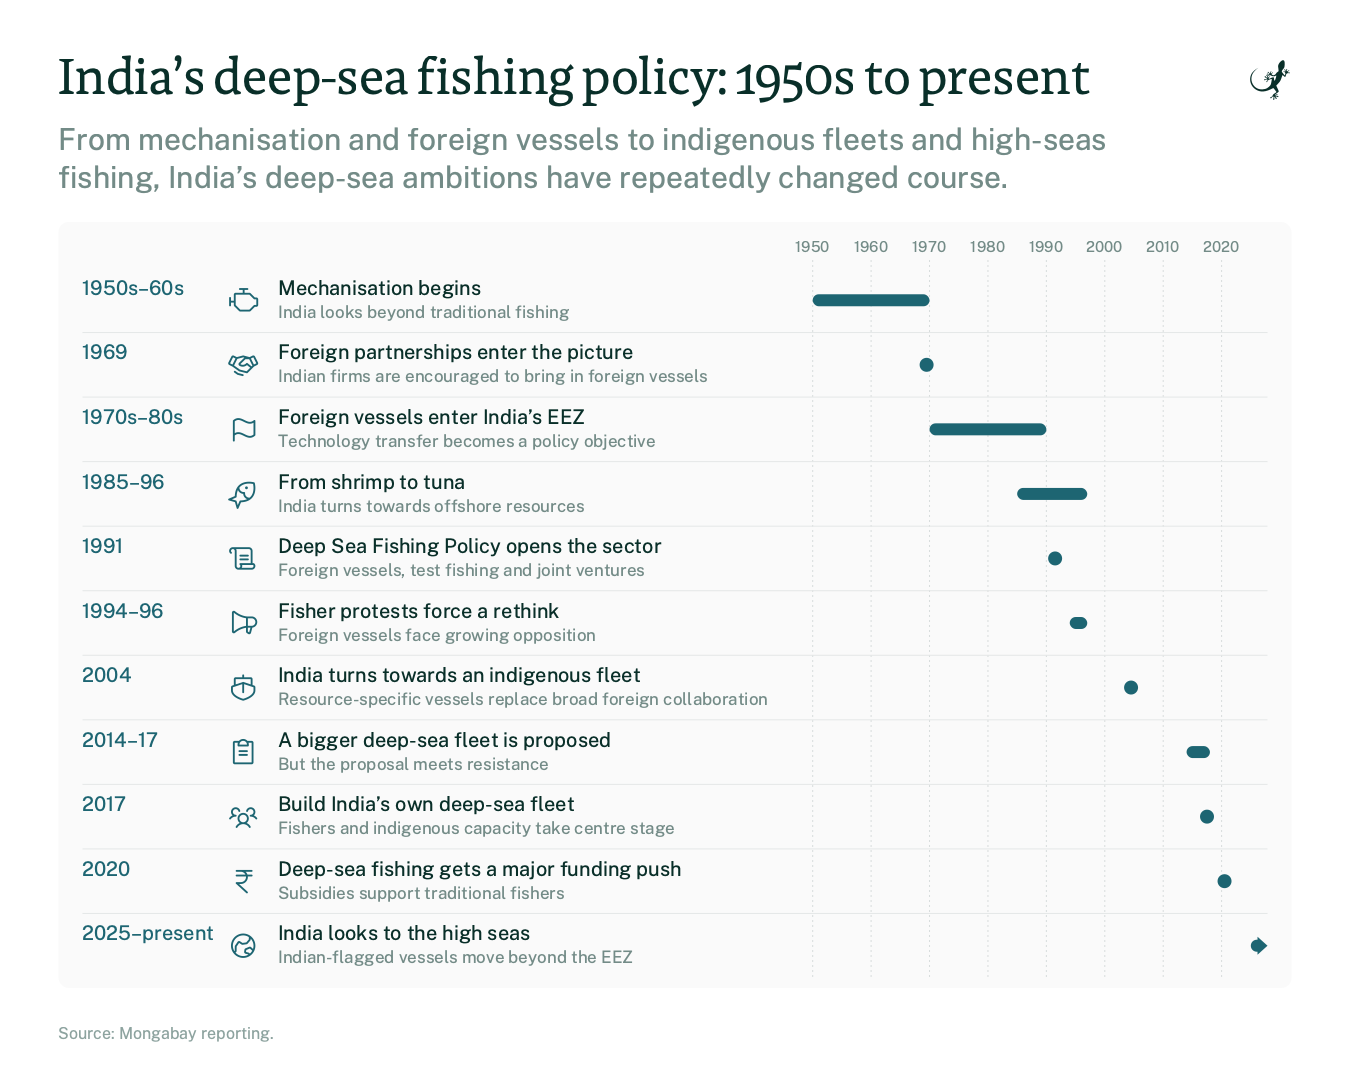
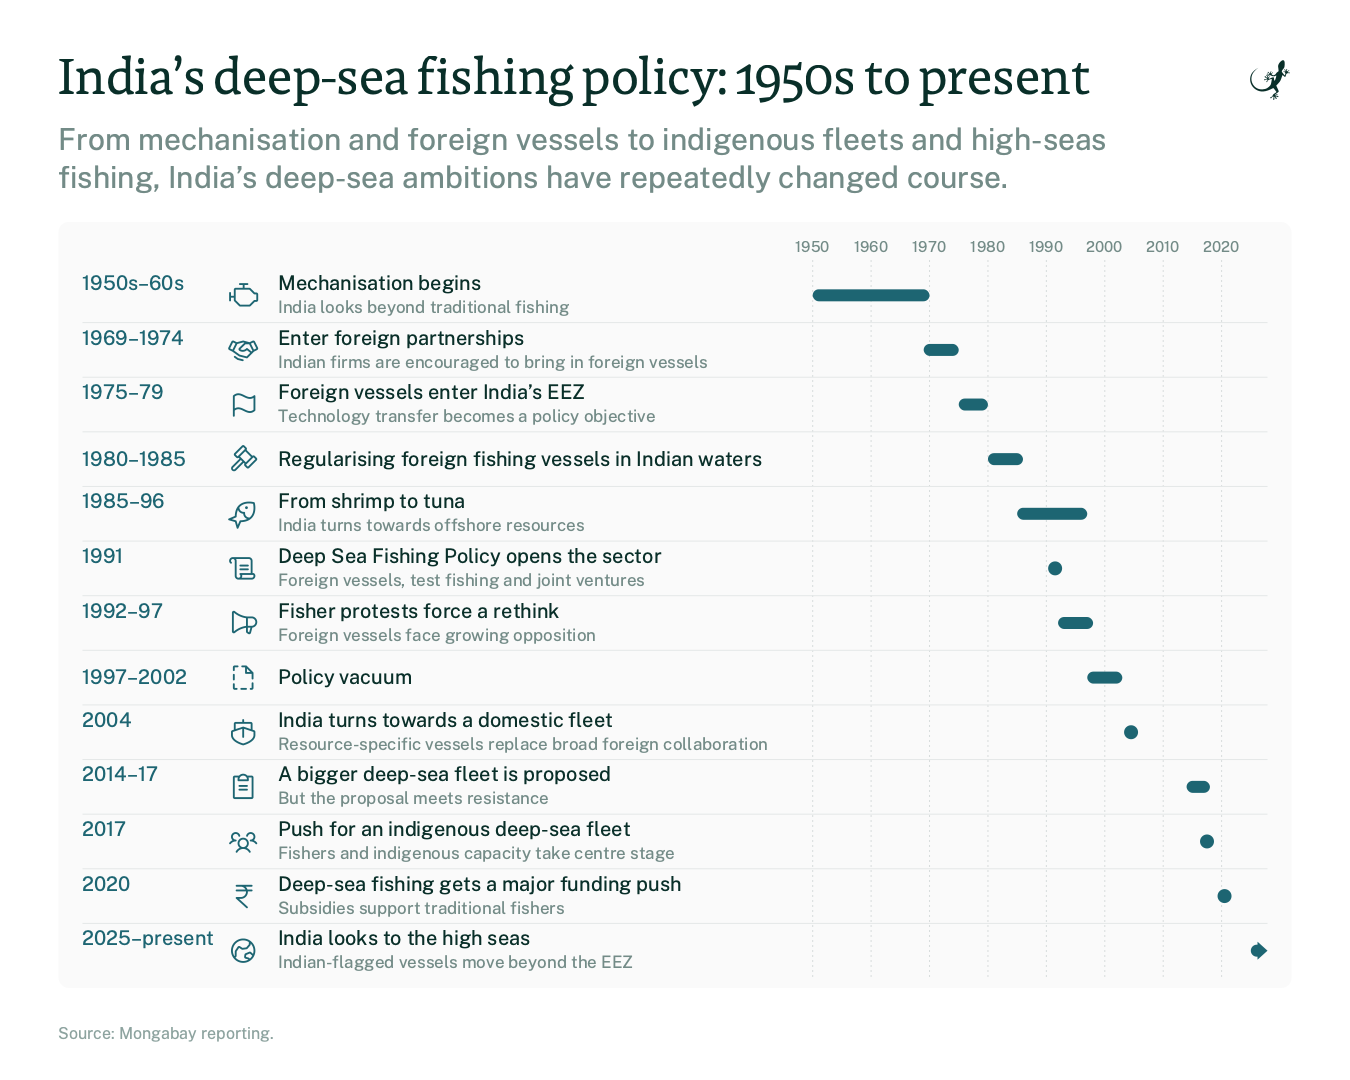
Update to the v2 brief: 13 entries
- Text from "Deep sea fisheries policy changes timeline_v2.docx": new
  1980-1985 and 1997-2002 entries, new periods for 1969-1974, 1975-79 and
  1992-97, edited bodies and two new titles.
- Entries without a subhead show none; gavel and dashed-document icons.
- Wider title column, so the longest title fits one line in a 780 px article.
- Shortcode refitted to the new heights. The fit now also allows for the
  17 px Windows scrollbar in columns of 560 px and up, and puts list-layout
  steps where the lower height applies.

diff --git a/content.js b/content.js
@@ -1,7 +1,8 @@
 // Editorial text for the timeline: the one source for both the web version (app.js) and the static graphic
 // (../output/fig1_build.py). Keep the object after the = sign valid JSON: no comments or trailing commas inside it.
 //
-// Every title, subhead and body is verbatim from "Deep sea fisheries policy changes timeline.docx".
+// Every title, subhead and body is verbatim from "Deep sea fisheries policy changes timeline_v2.docx" (6 Oct 2026).
+// An empty subhead ("") means the entry has none.
 // **double asterisks** mark the phrases the reporter set in bold; the web version highlights them.
 // start / end: first and last year of the period, inclusive. "ongoing": true draws the bar to the end of the axis.
 // icon: a Phosphor icon name from assets/icons.js.
@@ -30,25 +31,34 @@ window.DSF_TIMELINE = {
       "icon": "engine",
       "title": "Mechanisation begins",
       "subhead": "India looks beyond traditional fishing",
-      "body": "The government promotes **mechanisation of indigenous fishing vessels** and exploratory fishing to increase catches and exports. The Indo-Norwegian Project and FAO support the introduction of new vessel designs, including small mechanised boats and larger specialised vessels. Over time, the approach shifts towards **more intensive, export-oriented fishing**, including bottom trawling and onboard freezing."
+      "body": "The government promotes **mechanisation of indigenous fishing vessels** and exploratory fishing to increase catches and exports. The Indo-Norwegian Project and FAO support the introduction of new vessel designs, including small mechanised boats and larger specialised vessels. Penaid prawn is recognised as an important item for export. Over time, the approach shifts towards **more intensive, export-oriented fishing**, including bottom trawling and onboard freezing."
     },
     {
-      "date": "1969",
+      "date": "1969–1974",
       "start": 1969,
-      "end": 1969,
+      "end": 1974,
       "icon": "handshake",
-      "title": "Foreign partnerships enter the picture",
+      "title": "Enter foreign partnerships",
       "subhead": "Indian firms are encouraged to bring in foreign vessels",
-      "body": "Fishing is designated a priority area for **foreign collaboration**. Indian companies are encouraged to lease or import foreign fishing vessels to expand production and participate in the export trade."
+      "body": "Fishing is designated a priority area for **foreign collaboration**. Indian companies are encouraged to lease or import foreign fishing vessels to expand production and participate in the export trade. Deep Sea Fishing Station is renamed Exploratory Fisheries Project in 1974."
     },
     {
-      "date": "1970s–80s",
-      "start": 1970,
-      "end": 1989,
+      "date": "1975–79",
+      "start": 1975,
+      "end": 1979,
       "icon": "flag",
       "title": "Foreign vessels enter India’s EEZ",
       "subhead": "Technology transfer becomes a policy objective",
-      "body": "After India establishes its **200-nautical-mile Exclusive Economic Zone (EEZ)** in 1976, foreign-flagged vessels are allowed to fish in Indian waters through licences and partnerships. Joint ventures are promoted to bring in **technology, resource surveys and fishing expertise**, while helping Indian enterprises enter the export market."
+      "body": "After India establishes its **200-nautical-mile Exclusive Economic Zone (EEZ)** in 1976, foreign-flagged vessels are allowed to fish in Indian waters through licences and partnerships. The first deep-sea policy in 1977 provided for chartering arrangements with foreign operators. Private entrepreneurs are permitted to import trawlers."
+    },
+    {
+      "date": "1980–1985",
+      "start": 1980,
+      "end": 1985,
+      "icon": "gavel",
+      "title": "Regularising foreign fishing vessels in Indian waters",
+      "subhead": "",
+      "body": "Maritime Zones of India (Regulation of Fishing by Foreign Vessels) Act, 1981 regulates foreign vessels operating in Indian waters. Exploratory Fisheries Project is renamed the Fishery Survey of India (1983). Joint ventures are promoted to bring in **technology, resource surveys and fishing expertise**, while helping Indian enterprises enter the export market."
     },
     {
       "date": "1985–96",
@@ -69,20 +79,29 @@ window.DSF_TIMELINE = {
       "body": "As part of wider economic reforms, India introduces a new **Deep Sea Fishing Policy**. It allows foreign vessels to operate through leasing arrangements, permits foreign test fishing and promotes **49:51 foreign-Indian joint ventures** covering fishing, processing and marketing. Around **400 vessels receive valid permits** under the policy."
     },
     {
-      "date": "1994–96",
-      "start": 1994,
-      "end": 1996,
+      "date": "1992–97",
+      "start": 1992,
+      "end": 1997,
       "icon": "megaphone",
       "title": "Fisher protests force a rethink",
       "subhead": "Foreign vessels face growing opposition",
-      "body": "Millions of fishers and fish workers mobilise against the policy, arguing that foreign and larger vessels could cause **encroachment on fishing grounds, over-exploitation and damage to fishing gear and craft**. Following a government review and sustained protests, the 1991 Deep Sea Fishing Policy is **repealed**."
+      "body": "Millions of fishers and fish workers mobilise against the policy, arguing that foreign and larger vessels could cause **encroachment on fishing grounds, over-exploitation and damage to fishing gear and craft**. Following sustained protests and recommendations of the **P. Murari Committee Report**, the 1991 Deep Sea Fishing Policy is rescinded. Foreign fishing under these schemes ends."
+    },
+    {
+      "date": "1997–2002",
+      "start": 1997,
+      "end": 2002,
+      "icon": "file-dashed",
+      "title": "Policy vacuum",
+      "subhead": "",
+      "body": "By the end of 2003, the sector had evolved without a settled deep-sea policy."
     },
     {
       "date": "2004",
       "start": 2004,
       "end": 2004,
       "icon": "boat",
-      "title": "India turns towards an indigenous fleet",
+      "title": "India turns towards a domestic fleet",
       "subhead": "Resource-specific vessels replace broad foreign collaboration",
       "body": "The Comprehensive Policy on Marine Fisheries promotes **Indian-owned, resource-specific vessels** for deep-sea species such as tuna and squid. It also provides incentives for wholly Indian-owned vessels to venture into **international waters** and pursue fishing arrangements with other nations."
     },
@@ -100,7 +119,7 @@ window.DSF_TIMELINE = {
       "start": 2017,
       "end": 2017,
       "icon": "users-three",
-      "title": "Build India’s own deep-sea fleet",
+      "title": "Push for an indigenous deep-sea fleet",
       "subhead": "Fishers and indigenous capacity take centre stage",
       "body": "The National Policy on Marine Fisheries promotes the **modernisation of existing indigenous vessels** and the introduction of new deep-sea fishing vessels. It specifically encourages participation through **fisher cooperatives and self-help groups**, marking a renewed emphasis on domestic capacity."
     },

diff --git a/assets/icons.js b/assets/icons.js
@@ -6,8 +6,10 @@ window.DSF_ICONS = {
   "clipboard-text": "M168,152a8,8,0,0,1-8,8H96a8,8,0,0,1,0-16h64A8,8,0,0,1,168,152Zm-8-40H96a8,8,0,0,0,0,16h64a8,8,0,0,0,0-16Zm56-64V216a16,16,0,0,1-16,16H56a16,16,0,0,1-16-16V48A16,16,0,0,1,56,32H92.26a47.92,47.92,0,0,1,71.48,0H200A16,16,0,0,1,216,48ZM96,64h64a32,32,0,0,0-64,0ZM200,48H173.25A47.93,47.93,0,0,1,176,64v8a8,8,0,0,1-8,8H88a8,8,0,0,1-8-8V64a47.93,47.93,0,0,1,2.75-16H56V216H200Z",
   "currency-inr": "M208,80a8,8,0,0,1-8,8H167.85c.09,1.32.15,2.65.15,4a60.07,60.07,0,0,1-60,60H92.69l72.69,66.08a8,8,0,1,1-10.76,11.84l-88-80A8,8,0,0,1,72,136h36a44.05,44.05,0,0,0,44-44c0-1.35-.07-2.68-.19-4H72a8,8,0,0,1,0-16h75.17A44,44,0,0,0,108,48H72a8,8,0,0,1,0-16H200a8,8,0,0,1,0,16H148.74a60.13,60.13,0,0,1,15.82,24H200A8,8,0,0,1,208,80Z",
   "engine": "M240,104H227.31L192,68.69A15.86,15.86,0,0,0,180.69,64H140V40h24a8,8,0,0,0,0-16H100a8,8,0,0,0,0,16h24V64H64A16,16,0,0,0,48,80v52H24V108a8,8,0,0,0-16,0v64a8,8,0,0,0,16,0V148H48v20.69A15.86,15.86,0,0,0,52.69,180L92,219.31A15.86,15.86,0,0,0,103.31,224h77.38A15.86,15.86,0,0,0,192,219.31L227.31,184H240a16,16,0,0,0,16-16V120A16,16,0,0,0,240,104Zm0,64H224a8,8,0,0,0-5.66,2.34L180.69,208H103.31L64,168.69V80H180.69l37.65,37.66A8,8,0,0,0,224,120h16Z",
+  "file-dashed": "M80,224a8,8,0,0,1-8,8H56a16,16,0,0,1-16-16V184a8,8,0,0,1,16,0v32H72A8,8,0,0,1,80,224ZM216,88v48a8,8,0,0,1-16,0V96H152a8,8,0,0,1-8-8V40H120a8,8,0,0,1,0-16h32a8,8,0,0,1,5.66,2.34l56,56A8,8,0,0,1,216,88Zm-56-8h28.69L160,51.31ZM80,24H56A16,16,0,0,0,40,40V64a8,8,0,0,0,16,0V40H80a8,8,0,0,0,0-16ZM208,168a8,8,0,0,0-8,8v40h-8a8,8,0,0,0,0,16h8a16,16,0,0,0,16-16V176A8,8,0,0,0,208,168ZM48,152a8,8,0,0,0,8-8V104a8,8,0,0,0-16,0v40A8,8,0,0,0,48,152Zm104,64H112a8,8,0,0,0,0,16h40a8,8,0,0,0,0-16Z",
   "fish": "M168,76a12,12,0,1,1-12-12A12,12,0,0,1,168,76Zm48.72,67.64c-19.37,34.9-55.44,53.76-107.24,56.1l-22,51.41A8,8,0,0,1,80.1,256l-.51,0a8,8,0,0,1-7.19-5.78L57.6,198.39,5.8,183.56a8,8,0,0,1-1-15.05l51.41-22c2.35-51.78,21.21-87.84,56.09-107.22,24.75-13.74,52.74-15.84,71.88-15.18,18.64.64,36,4.27,38.86,6a8,8,0,0,1,2.83,2.83c1.69,2.85,5.33,20.21,6,38.85C232.55,90.89,230.46,118.89,216.72,143.64Zm-55.18,29a52.11,52.11,0,0,1-33.4-44.78A52.09,52.09,0,0,1,83.37,94.47q-10.45,23.79-11.3,57.59a8,8,0,0,1-4.85,7.17L31.83,174.37l34.45,9.86a8,8,0,0,1,5.49,5.5l9.84,34.44,15.16-35.4a8,8,0,0,1,7.17-4.84Q137.71,183.12,161.54,172.64ZM212.42,43.57c-14.15-3-64.1-11-100.3,14.75a81.21,81.21,0,0,0-16,15.07,36,36,0,0,0,39.35,38.44,8,8,0,0,1,8.73,8.73,36,36,0,0,0,38.47,39.34,80.81,80.81,0,0,0,15-16C223.42,107.73,215.42,57.74,212.42,43.57Z",
   "flag": "M42.76,50A8,8,0,0,0,40,56V224a8,8,0,0,0,16,0V179.77c26.79-21.16,49.87-9.75,76.45,3.41,16.4,8.11,34.06,16.85,53,16.85,13.93,0,28.54-4.75,43.82-18a8,8,0,0,0,2.76-6V56A8,8,0,0,0,218.76,50c-28,24.23-51.72,12.49-79.21-1.12C111.07,34.76,78.78,18.79,42.76,50ZM216,172.25c-26.79,21.16-49.87,9.74-76.45-3.41-25-12.35-52.81-26.13-83.55-8.4V59.79c26.79-21.16,49.87-9.75,76.45,3.4,25,12.35,52.82,26.13,83.55,8.4Z",
+  "gavel": "M243.32,116.69l-16-16a16,16,0,0,0-20.84-1.53L156.84,49.52a16,16,0,0,0-1.52-20.84l-16-16a16,16,0,0,0-22.63,0l-64,64a16,16,0,0,0,0,22.63l16,16a16,16,0,0,0,20.83,1.52L96.69,124,31.31,189.38A25,25,0,0,0,66.63,224.7L132,159.32l7.17,7.16a16,16,0,0,0,1.52,20.84l16,16a16,16,0,0,0,22.63,0l64-64A16,16,0,0,0,243.32,116.69ZM80,104,64,88l64-64,16,16ZM55.32,213.38a9,9,0,0,1-12.69,0,9,9,0,0,1,0-12.68L108,135.32,120.69,148ZM101,105.66,145.66,61,195,110.34,150.35,155ZM168,192l-16-16,4-4h0l56-56h0l4-4,16,16Z",
   "globe-hemisphere-east": "M128,24A104,104,0,1,0,232,128,104.11,104.11,0,0,0,128,24Zm0,16a87.5,87.5,0,0,1,48,14.28V74L153.83,99.74,122.36,104l-.31-.22L102.38,90.92A16,16,0,0,0,79.87,95.1L58.93,126.4a16,16,0,0,0-2.7,8.81L56,171.44l-3.27,2.15A88,88,0,0,1,128,40ZM62.29,186.47l2.52-1.65A16,16,0,0,0,72,171.53l.21-36.23L93.17,104a3.62,3.62,0,0,0,.32.22l19.67,12.87a15.94,15.94,0,0,0,11.35,2.77L156,115.59a16,16,0,0,0,10-5.41l22.17-25.76A16,16,0,0,0,192,74V67.67A87.87,87.87,0,0,1,211.77,155l-16.14-14.76a16,16,0,0,0-16.93-3l-30.46,12.65a16.08,16.08,0,0,0-9.68,12.45l-2.39,16.19a16,16,0,0,0,11.77,17.81L169.4,202l2.36,2.37A87.88,87.88,0,0,1,62.29,186.47ZM185,195l-4.3-4.31a16,16,0,0,0-7.26-4.18L152,180.85l2.39-16.19L184.84,152,205,170.48A88.43,88.43,0,0,1,185,195Z",
   "handshake": "M254.3,107.91,228.78,56.85a16,16,0,0,0-21.47-7.15L182.44,62.13,130.05,48.27a8.14,8.14,0,0,0-4.1,0L73.56,62.13,48.69,49.7a16,16,0,0,0-21.47,7.15L1.7,107.9a16,16,0,0,0,7.15,21.47l27,13.51,55.49,39.63a8.06,8.06,0,0,0,2.71,1.25l64,16a8,8,0,0,0,7.6-2.1l55.07-55.08,26.42-13.21a16,16,0,0,0,7.15-21.46Zm-54.89,33.37L165,113.72a8,8,0,0,0-10.68.61C136.51,132.27,116.66,130,104,122L147.24,80h31.81l27.21,54.41ZM41.53,64,62,74.22,36.43,125.27,16,115.06Zm116,119.13L99.42,168.61l-49.2-35.14,28-56L128,64.28l9.8,2.59-45,43.68-.08.09a16,16,0,0,0,2.72,24.81c20.56,13.13,45.37,11,64.91-5L188,152.66Zm62-57.87-25.52-51L214.47,64,240,115.06Zm-87.75,92.67a8,8,0,0,1-7.75,6.06,8.13,8.13,0,0,1-1.95-.24L80.41,213.33a7.89,7.89,0,0,1-2.71-1.25L51.35,193.26a8,8,0,0,1,9.3-13l25.11,17.94L126,208.24A8,8,0,0,1,131.82,217.94Z",
   "megaphone": "M248,120a48.05,48.05,0,0,0-48-48H160.2c-2.91-.17-53.62-3.74-101.91-44.24A16,16,0,0,0,32,40V200a16,16,0,0,0,26.29,12.25c37.77-31.68,77-40.76,93.71-43.3v31.72A16,16,0,0,0,159.12,214l11,7.33A16,16,0,0,0,194.5,212l11.77-44.36A48.07,48.07,0,0,0,248,120ZM48,199.93V40h0c42.81,35.91,86.63,45,104,47.24v65.48C134.65,155,90.84,164.07,48,199.93Zm131,8,0,.11-11-7.33V168h21.6ZM200,152H168V88h32a32,32,0,1,1,0,64Z",

diff --git a/dev/shortcode-test.html b/dev/shortcode-test.html
@@ -17,7 +17,7 @@
 <div class="ph--40"><div class="inner">
   <p>Article text before the graphic. This paragraph stands in for the story text above the embed.</p>
   <!-- the shortcode's output, with src pointing at this local copy -->
-  <iframe src="../?fill=1" title="India’s deep-sea fishing policy: 1950s to present (interactive timeline)" style="display:block; width:100%; height:calc(930px - 0.0 * clamp(0px, min(780px, 100vw - 2 * clamp(20px, 1px + 5vw, 40px)) - 280px, 13.5px) - 13.0 * clamp(0px, min(780px, 100vw - 2 * clamp(20px, 1px + 5vw, 40px)) - 293.5px, 2px) - 1.375 * clamp(0px, min(780px, 100vw - 2 * clamp(20px, 1px + 5vw, 40px)) - 295.5px, 16px) - 1.9545 * clamp(0px, min(780px, 100vw - 2 * clamp(20px, 1px + 5vw, 40px)) - 311.5px, 22px) - 0.75 * clamp(0px, min(780px, 100vw - 2 * clamp(20px, 1px + 5vw, 40px)) - 333.5px, 28px) - 0.9286 * clamp(0px, min(780px, 100vw - 2 * clamp(20px, 1px + 5vw, 40px)) - 361.5px, 70px) - 0.3929 * clamp(0px, min(780px, 100vw - 2 * clamp(20px, 1px + 5vw, 40px)) - 431.5px, 56px) - 0.4536 * clamp(0px, min(780px, 100vw - 2 * clamp(20px, 1px + 5vw, 40px)) - 487.5px, 231.5px) + clamp(0px, (min(780px, 100vw - 2 * clamp(20px, 1px + 5vw, 40px)) - 719px) * 100000, 117px) - clamp(0px, (min(780px, 100vw - 2 * clamp(20px, 1px + 5vw, 40px)) - 727.75px) * 100000, 2px)); margin:40px 0; border:0;" scrolling="auto"></iframe>
+  <iframe src="../?fill=1" title="India’s deep-sea fishing policy: 1950s to present (interactive timeline)" style="display:block; width:100%; height:calc(989px - 0.0 * clamp(0px, min(780px, 100vw - 2 * clamp(20px, 1px + 5vw, 40px)) - 280px, 7.5px) - 2.6667 * clamp(0px, min(780px, 100vw - 2 * clamp(20px, 1px + 5vw, 40px)) - 287.5px, 6px) - 1.9444 * clamp(0px, min(780px, 100vw - 2 * clamp(20px, 1px + 5vw, 40px)) - 293.5px, 36px) - 0.9565 * clamp(0px, min(780px, 100vw - 2 * clamp(20px, 1px + 5vw, 40px)) - 329.5px, 46px) - 0.913 * clamp(0px, min(780px, 100vw - 2 * clamp(20px, 1px + 5vw, 40px)) - 375.5px, 46px) - 0.4074 * clamp(0px, min(780px, 100vw - 2 * clamp(20px, 1px + 5vw, 40px)) - 421.5px, 54px) - 0.4545 * clamp(0px, min(780px, 100vw - 2 * clamp(20px, 1px + 5vw, 40px)) - 475.5px, 44px) - 1.75 * clamp(0px, min(780px, 100vw - 2 * clamp(20px, 1px + 5vw, 40px)) - 519.5px, 12px) - 0.2169 * clamp(0px, min(780px, 100vw - 2 * clamp(20px, 1px + 5vw, 40px)) - 531.5px, 83px) - 2.3333 * clamp(0px, min(780px, 100vw - 2 * clamp(20px, 1px + 5vw, 40px)) - 614.5px, 12px) - 0.2065 * clamp(0px, min(780px, 100vw - 2 * clamp(20px, 1px + 5vw, 40px)) - 626.5px, 92px) - 42.0 * clamp(0px, min(780px, 100vw - 2 * clamp(20px, 1px + 5vw, 40px)) - 718.5px, 0.5px) + clamp(0px, (min(780px, 100vw - 2 * clamp(20px, 1px + 5vw, 40px)) - 719px) * 100000, 176px) - clamp(0px, (min(780px, 100vw - 2 * clamp(20px, 1px + 5vw, 40px)) - 763px) * 100000, 23px)); margin:40px 0; border:0;" scrolling="auto"></iframe>
   <p>Article text after the graphic. This paragraph shows the gap a reader sees below the embed.</p>
 </div></div>
 </body>

diff --git a/index.html b/index.html
@@ -38,7 +38,7 @@
     </footer>
 
     <!-- fallback:start (written by make_embed.py: the static graphic for browsers without JavaScript) -->
-    <noscript><img class="tl-fallback" src="assets/static-fallback.png" width="1350" height="1080" alt="India’s deep-sea fishing policy: 1950s to present. 1950s–60s: Mechanisation begins. 1969: Foreign partnerships enter the picture. 1970s–80s: Foreign vessels enter India’s EEZ. 1985–96: From shrimp to tuna. 1991: Deep Sea Fishing Policy opens the sector. 1994–96: Fisher protests force a rethink. 2004: India turns towards an indigenous fleet. 2014–17: A bigger deep-sea fleet is proposed. 2017: Build India’s own deep-sea fleet. 2020: Deep-sea fishing gets a major funding push. 2025–present: India looks to the high seas."></noscript>
+    <noscript><img class="tl-fallback" src="assets/static-fallback.png" width="1350" height="1080" alt="India’s deep-sea fishing policy: 1950s to present. 1950s–60s: Mechanisation begins. 1969–1974: Enter foreign partnerships. 1975–79: Foreign vessels enter India’s EEZ. 1980–1985: Regularising foreign fishing vessels in Indian waters. 1985–96: From shrimp to tuna. 1991: Deep Sea Fishing Policy opens the sector. 1992–97: Fisher protests force a rethink. 1997–2002: Policy vacuum. 2004: India turns towards a domestic fleet. 2014–17: A bigger deep-sea fleet is proposed. 2017: Push for an indigenous deep-sea fleet. 2020: Deep-sea fishing gets a major funding push. 2025–present: India looks to the high seas."></noscript>
     <!-- fallback:end -->
   </figure>
 

diff --git a/app.js b/app.js
@@ -121,7 +121,7 @@
     card.innerHTML =
       '<div class="tl-meta">' + svg(ICONS[e.icon]) + "<span>" + esc(e.date) + "</span></div>" +
       '<h2 class="tl-card-title">' + esc(e.title) + "</h2>" +
-      '<p class="tl-card-sub">' + esc(e.subhead) + "</p>" +
+      (e.subhead ? '<p class="tl-card-sub">' + esc(e.subhead) + "</p>" : "") + // some entries have no subhead
       '<p class="tl-card-body">' + rich(e.body) + "</p>";
     cards.appendChild(card);
     panels.push(card);

diff --git a/style.css b/style.css
@@ -47,7 +47,7 @@
 
   /* list of periods: date | title | time axis */
   --c-date: 6.25rem;      /* adjust column widths here */
-  --c-text: 1.25fr;
+  --c-text: 1.5fr;         /* wide enough for the longest title on one line in a 780 px article column */
   --c-axis: 1fr;
   --gap: 0.75rem;         /* adjust space between columns here */
   --pad: 16px;            /* adjust panel inner side padding here */

diff --git a/dev/embed_shortcode.py b/dev/embed_shortcode.py
@@ -19,6 +19,7 @@ The formula is fitted here from the measurements, so it follows the content when
 """
 import json
 import os
+import re
 
 HERE = os.path.dirname(os.path.abspath(__file__))
 ROOT = os.path.dirname(HERE)
@@ -37,8 +38,18 @@ def col(vw):
 LAYOUT_SWITCH = 719   # style.css: the phone layout applies up to a 719 px wide frame
 MARGIN = 6            # px added everywhere, so rounding and font differences never leave the timeline short
 LATE_WRAP = 8         # px: allow for a browser wrapping text up to this much later (wider) than the measurements
+SCROLLBAR = 17        # px: Windows desktop browsers count the scrollbar in 100vw, so the formula sees a column this
+                      # much wider than the real one; without this, a re-wrap step in that band leaves the frame short
+SCROLLBAR_FROM = 560  # px of column (a screen of about 624 px): below it only phones are likely, and phones have no
+                      # such scrollbar, so the allowance would only add spare height there
 MERGE_TOL = 12        # px of extra spare allowed when merging segments, to keep the formula short
 STEEP = 100000        # makes a ramp into a step: the full jump is reached within a fraction of a pixel
+
+
+def load_rows():
+    """The timeline's entries, from content.js (the list has one row each)."""
+    src = open(os.path.join(ROOT, "content.js"), encoding="utf-8").read()
+    return json.loads(re.search(r"=\s*(\{.*\})\s*;\s*$", src, re.S).group(1))["events"]
 
 
 def needed_fn(heights):
@@ -92,9 +103,11 @@ def fit(needed, lo, hi, step=0.5):
 
 
 def late(needed):
-    """needed(), assuming each re-wrap happens up to LATE_WRAP px later; the layout switch itself is exact."""
+    """needed(), assuming each re-wrap happens up to LATE_WRAP px later (plus SCROLLBAR px in columns where a desktop
+    window is plausible); the layout switch itself is exact."""
     def f(c):
-        side = [c - d * 0.5 for d in range(int(LATE_WRAP * 2) + 1)]
+        back = LATE_WRAP + (SCROLLBAR if c >= SCROLLBAR_FROM else 0)
+        side = [c - d * 0.5 for d in range(int(back * 2) + 1)]
         return max(needed(x) for x in side if (x <= LAYOUT_SWITCH) == (c <= LAYOUT_SWITCH))
     return f
 
@@ -109,7 +122,7 @@ def build(heights):
     for i in range(2 * (LAYOUT_SWITCH + 1), 2 * 780 + 1):
         x = i / 2
         if needed(x + 0.5) < last:
-            wide_steps.append((x + 0.25, last - needed(x + 0.5)))
+            wide_steps.append((x + 0.5, last - needed(x + 0.5)))   # at the width where the lower height applies
             last = needed(x + 0.5)
     return phone, y_phone_end, wide_start, wide_steps
 
@@ -153,12 +166,17 @@ def main():
 
     bands = [(320, 359, "small phones"), (360, 430, "phones"), (431, 714, "large phones, small tablets"),
              (715, 859, "tablets, small windows"), (860, 1600, "desktop")]
+    rows = len(load_rows())
+    measured = needed_fn(heights)
     worst = None
-    print("spare height (formula minus timeline), px")
+    print(f"spare height (formula minus the timeline as measured), px, shared by {rows} rows")
     for lo, hi, label in bands:
-        spare = [height(col(vw), checked) - needed(col(vw)) for vw in range(lo, hi + 1)]
-        worst = min(spare) if worst is None else min(worst, min(spare))
-        print(f"  {label:28s} {lo}–{hi}: {min(spare):5.1f} to {max(spare):5.1f}  (up to {max(spare) / 11:.1f} per row)")
+        cs = [col(vw) for vw in range(lo, hi + 1)]
+        worst_case = min(height(c, checked) - needed(c) for c in cs)        # with late wraps and a Windows scrollbar
+        spare = [height(c, checked) - measured(c) for c in cs]              # what most readers get
+        worst = worst_case if worst is None else min(worst, worst_case)
+        print(f"  {label:28s} {lo}–{hi}: {min(spare):5.1f} to {max(spare):5.1f}  (up to {max(spare) / rows:.1f} per row;"
+              f" {worst_case:4.1f} at worst)")
     if worst < 0:
         print(f"  ! the formula is up to {-worst:.1f} px short somewhere")
         raise SystemExit(1)
